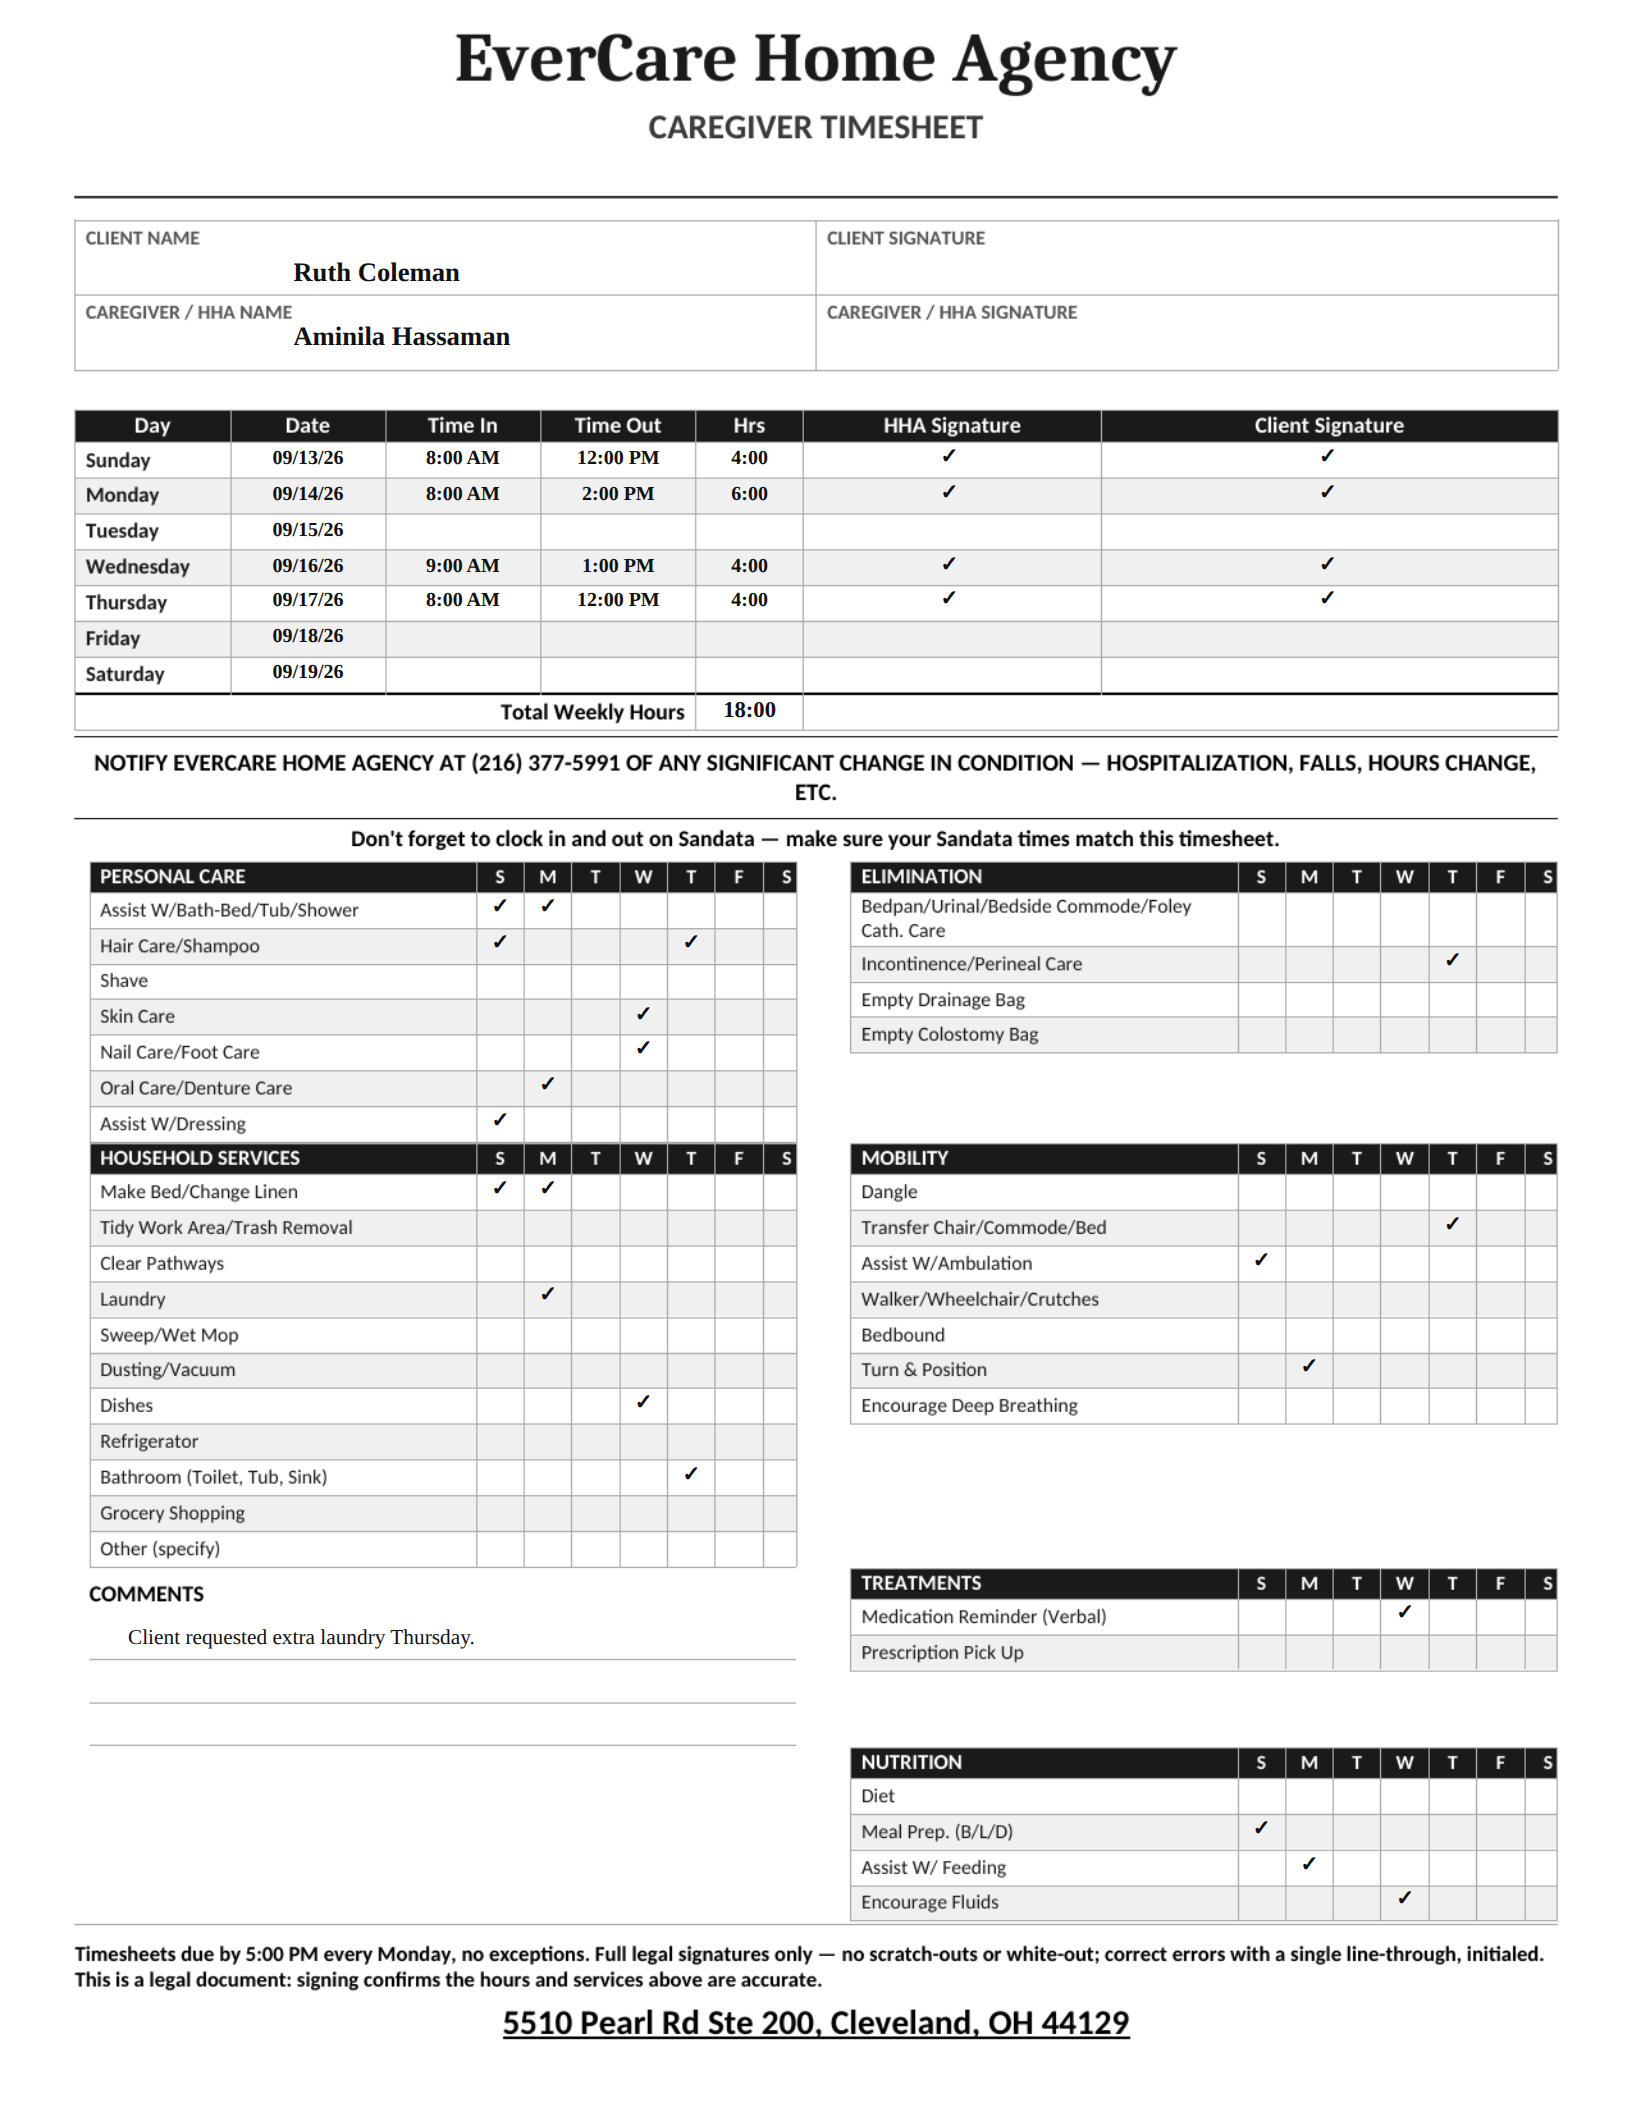
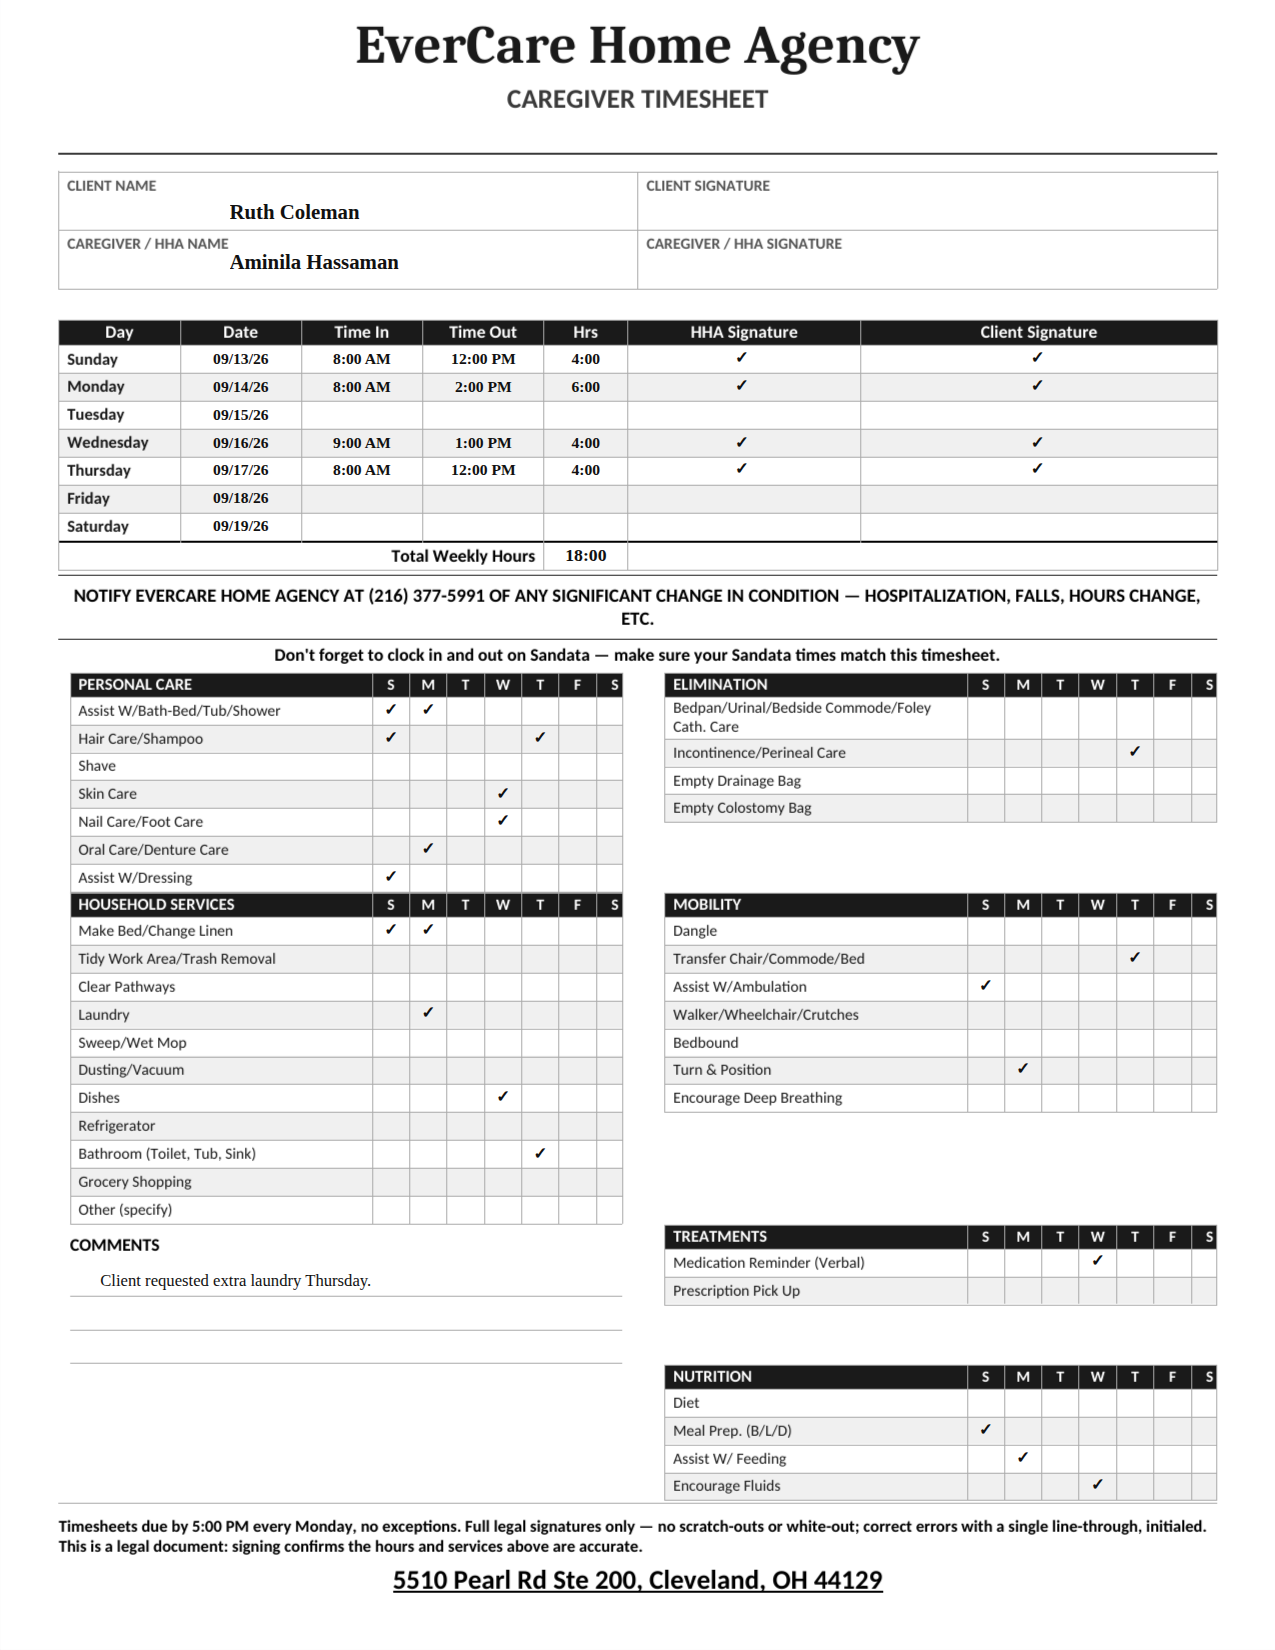
Harden PrintTS paper overlay so Probe sees blank letter
Serve the blank via both a cache-busted ts-blank img and CSS
background-image on #tsPrintSheet, mark data-print-mode=paper-overlay,
await blank decode before print, and drop leftover HTML table builders.
Force a Pages index.html refresh and refresh print-sample-OVERLAY.png.

diff --git a/index.html b/index.html
@@ -7,6 +7,7 @@
 <meta charset="UTF-8">
 <meta name="viewport" content="width=device-width, initial-scale=1, maximum-scale=1, viewport-fit=cover">
 <title>EverCare — Admin Portal</title>
+<!-- paper-overlay hotfix 2026-09-21 v=a713ovl force Pages index.html refresh -->
 <link href="https://fonts.googleapis.com/css2?family=Playfair+Display:wght@600;700&family=DM+Sans:wght@300;400;500;600&display=swap" rel="stylesheet">
 <style>
 :root{--teal:#2a7f7f;--teal-dark:#1e6060;--teal-light:#e8f4f4;--navy:#1a2744;--off:#f5f8fc;--border:#dce4ef;--text:#1e2a3a;--muted:#6b7a90;--danger:#c0392b;--success:#27ae60;--warn:#e67e22;}
@@ -280,7 +281,18 @@ textarea{resize:vertical;min-height:80px;}
 body.ts-print-open{overflow:hidden;}
 .ts-print-wrap{flex:1;padding:8px 6px 20px;display:flex;justify-content:center;align-items:flex-start;}
 /* US Letter lock — 612×792pt / 8.5×11in. Blank paper + FORM-map fills only. */
-.ts-print-sheet{position:relative;background:#fff;width:8.5in;height:11in;max-width:100%;padding:0;box-shadow:0 8px 28px rgba(0,0,0,0.18);color:#111;font-family:'Times New Roman',Times,serif;box-sizing:border-box;overflow:hidden;aspect-ratio:8.5/11;container-type:inline-size;container-name:ts;flex:none;align-self:flex-start;}
+:root{--ts-blank-url:url('assets/blank-letter.png?v=a713ovl');}
+#tsPrintSheet,.ts-print-sheet{
+  position:relative;
+  background-color:#fff;
+  background-image:var(--ts-blank-url);
+  background-size:100% 100%;
+  background-repeat:no-repeat;
+  background-position:center;
+  -webkit-print-color-adjust:exact;
+  print-color-adjust:exact;
+  width:8.5in;height:11in;max-width:100%;padding:0;box-shadow:0 8px 28px rgba(0,0,0,0.18);color:#111;font-family:'Times New Roman',Times,serif;box-sizing:border-box;overflow:hidden;aspect-ratio:8.5/11;container-type:inline-size;container-name:ts;flex:none;align-self:flex-start;
+}
 .ts-blank{display:block;width:100%;height:100%;object-fit:fill;object-position:center;border:0;-webkit-print-color-adjust:exact;print-color-adjust:exact;position:absolute;inset:0;z-index:0;}
 .ts-fill{position:absolute;z-index:1;color:#111;font-family:'Times New Roman',Times,serif;font-weight:700;line-height:1;white-space:nowrap;pointer-events:none;transform:translate(0,-50%);}
 .ts-fill-c{transform:translate(-50%,-50%);text-align:center;}
@@ -380,7 +392,13 @@ body.ts-print-open{overflow:hidden;}
     margin:0 !important;
     position:relative !important;
     overflow:hidden !important;
-    background:#fff !important;
+    background-color:#fff !important;
+    background-image:url('assets/blank-letter.png?v=a713ovl') !important;
+    background-size:100% 100% !important;
+    background-repeat:no-repeat !important;
+    background-position:center !important;
+    -webkit-print-color-adjust:exact !important;
+    print-color-adjust:exact !important;
     color:#111 !important;
   }
   @page{size:letter;margin:0;}
@@ -1573,7 +1591,7 @@ Call (216) 377-5991 with any questions.</textarea>
     </div>
   </div>
   <div class="ts-print-wrap">
-    <div id="tsPrintSheet" class="ts-print-sheet"></div>
+    <div id="tsPrintSheet" class="ts-print-sheet" data-print-mode="paper-overlay"></div>
   </div>
 </div>
 
@@ -1595,30 +1613,19 @@ const SHEETS_URL='https://script.google.com/macros/s/AKfycbwSZbOtThwwwiu5pojn7re
 const MGR_PASSWORD='evercare2024';
 const DAYS=['Sunday','Monday','Tuesday','Wednesday','Thursday','Friday','Saturday'];
 const PRINT_DAYS=[0,1,2,3,4,5,6]; // Sun–Sat Caregiver Timesheet paper
-const PAPER_DAY_LETTERS=['S','M','T','W','T','F','S'];
 const AGENCY={
   name:'EverCare Home Agency',
   address:'5510 Pearl Rd Ste 200',
   cityLine:'Cleveland, OH 44129',
   phone:'(216) 377-5991'
 };
-/* Exact Ace / TimesheetArchive.gs PAPER_SERVICES SVC_* labels. */
+/* Exact Ace / TimesheetArchive.gs SVC_* labels. */
 const SVC_PERSONAL_CARE=['Assist W/Bath-Bed/Tub/Shower','Hair Care/Shampoo','Shave','Skin Care','Nail Care/Foot Care','Oral Care/Denture Care','Assist W/Dressing'];
 const SVC_ELIMINATION=['Bedpan/Urinal/Bedside Commode/Foley','Cath. Care','Incontinence/Perineal Care','Empty Drainage Bag','Empty Colostomy Bag'];
 const SVC_HOUSEHOLD=['Make Bed/Change Linen','Tidy Work Area/Trash Removal','Clear Pathways','Laundry','Sweep/Wet Mop','Dusting/Vacuum','Dishes','Refrigerator','Bathroom (Toilet, Tub, Sink)','Grocery Shopping','Other (specify)'];
 const SVC_MOBILITY=['Dangle','Transfer Chair/Commode/Bed','Assist W/Ambulation','Walker/Wheelchair/Crutches','Bedbound','Turn & Position','Encourage Deep Breathing'];
 const SVC_TREATMENTS=['Medication Reminder (Verbal)','Prescription Pick Up'];
 const SVC_NUTRITION=['Diet','Meal Prep. (B/L/D)','Assist W/ Feeding','Encourage Fluids'];
-const PAPER_SERVICES=[
-  {n:'PERSONAL CARE',items:SVC_PERSONAL_CARE},
-  {n:'HOUSEHOLD SERVICES',items:SVC_HOUSEHOLD},
-  {n:'ELIMINATION',items:SVC_ELIMINATION},
-  {n:'MOBILITY',items:SVC_MOBILITY},
-  {n:'TREATMENTS',items:SVC_TREATMENTS},
-  {n:'NUTRITION',items:SVC_NUTRITION}
-];
-const PAPER_SVC_LEFT=['PERSONAL CARE','HOUSEHOLD SERVICES'];
-const PAPER_SVC_RIGHT=['ELIMINATION','MOBILITY','TREATMENTS','NUTRITION'];
 /* Ace TimesheetArchive FORM map — PDF pts, letter 612×792, yTop from top. */
 const TS_FORM_PT={
   sheetW:612,sheetH:792,
@@ -1638,7 +1645,8 @@ const TS_FORM_PT={
   yTreat:[606.18,619.59],
   yNutrition:[673.38,686.79,700.18,713.59]
 };
-const TS_BLANK_SRC='assets/blank-letter.png';
+const TS_BLANK_VER='a713ovl';
+const TS_BLANK_SRC='assets/blank-letter.png?v='+TS_BLANK_VER;
 const TS_SVC_OVERLAY=[
   {items:SVC_PERSONAL_CARE,ys:'yPersonal',xs:'dayXL'},
   {items:SVC_ELIMINATION,ys:'yElim',xs:'dayXR'},
@@ -2693,17 +2701,40 @@ function daySigMark(r,i,role){
   const d=dayEntry((r&&r.days)||{},i);
   return hasSigInk(role==='aide'?(d.aideSig||''):(d.clientSig||''));
 }
+function applyPrintSheetPaper(sheet){
+  if(!sheet)return;
+  sheet.setAttribute('data-print-mode','paper-overlay');
+  sheet.style.backgroundColor='#fff';
+  sheet.style.backgroundImage="url('"+TS_BLANK_SRC+"')";
+  sheet.style.backgroundSize='100% 100%';
+  sheet.style.backgroundRepeat='no-repeat';
+  sheet.style.backgroundPosition='center';
+  sheet.style.webkitPrintColorAdjust='exact';
+  sheet.style.printColorAdjust='exact';
+}
 function waitForSheetImages(root){
   const imgs=root?root.querySelectorAll('img'):[];
   if(!imgs.length)return Promise.resolve();
   return Promise.all(Array.prototype.map.call(imgs,img=>{
-    if(img.complete&&img.naturalWidth)return Promise.resolve();
+    if(img.complete&&img.naturalWidth>0)return Promise.resolve();
     return new Promise(res=>{
       const done=()=>res();
       img.addEventListener('load',done,{once:true});
       img.addEventListener('error',done,{once:true});
     });
   }));
+}
+async function waitForBlankPaper(root){
+  const img=root&&root.querySelector('img.ts-blank');
+  if(!img)return;
+  const deadline=Date.now()+8000;
+  while(Date.now()<deadline){
+    try{
+      if(typeof img.decode==='function')await img.decode();
+    }catch(e){}
+    if(img.naturalWidth>0)return;
+    await new Promise(r=>setTimeout(r,40));
+  }
 }
 
 function buildPrintHtml(r){
@@ -2752,7 +2783,9 @@ function buildPrintHtml(r){
   if(otherSpecify)fills.push(tsFill(otherSpecify,F.otherSpecifyX,F.otherSpecifyY,'ts-fill-other'));
   const notes=String((r&&(r.notes||r.comments))||'').trim();
   if(notes)fills.push(tsFill(notes,F.commentsX,F.commentsY,'ts-fill-notes'));
-  return `<img class="ts-blank" src="${TS_BLANK_SRC}" alt="" width="1275" height="1650" decoding="sync" loading="eager">${fills.join('')}`;
+  const html=`<img class="ts-blank" src="${TS_BLANK_SRC}" alt="" width="1275" height="1650" decoding="sync" loading="eager">${fills.join('')}`;
+  if(/<table\b/i.test(html))return html.replace(/<table\b[\s\S]*?<\/table>/gi,'');
+  return html;
 }
 
 function closeTimesheetPrint(){
@@ -2799,6 +2832,7 @@ function openTimesheetPrint(r){
   const overlay=document.getElementById('tsPrintOverlay');
   if(!sheet||!overlay)return;
   sheet.innerHTML=buildPrintHtml(r);
+  applyPrintSheetPaper(sheet);
   overlay.classList.add('show');
   overlay.removeAttribute('hidden');
   overlay.hidden=false;
@@ -2810,7 +2844,11 @@ async function printTimesheetSheet(){
   const overlay=document.getElementById('tsPrintOverlay');
   const sheet=document.getElementById('tsPrintSheet');
   if(!overlay||!overlay.classList.contains('show')||!sheet)return;
-  await waitForSheetImages(sheet);
+  applyPrintSheetPaper(sheet);
+  await waitForBlankPaper(sheet);
+  if(!(sheet.querySelector('img.ts-blank')&&sheet.querySelector('img.ts-blank').naturalWidth>0)){
+    await waitForSheetImages(sheet);
+  }
   unlockBodyForPrint();
   const parent=sheet.parentNode;
   const next=sheet.nextSibling;
@@ -2907,10 +2945,13 @@ async function downloadTSPDF(){
   showTempMsg('Generating PDF, please wait...','var(--teal)');
   const container=document.createElement('div');
   container.className='ts-print-sheet';
-  container.style.cssText='position:fixed;left:-9999px;top:0;width:8.5in;height:11in;padding:0;overflow:hidden;background:#fff;box-shadow:none;';
+  container.setAttribute('data-print-mode','paper-overlay');
+  container.style.cssText='position:fixed;left:-9999px;top:0;width:8.5in;height:11in;padding:0;overflow:hidden;background-color:#fff;box-shadow:none;';
   container.innerHTML=buildPrintHtml(r);
+  applyPrintSheetPaper(container);
   document.body.appendChild(container);
   try{
+    await waitForBlankPaper(container);
     await waitForSheetImages(container);
     const canvas=await html2canvas(container,{scale:2,useCORS:true,backgroundColor:'#ffffff'});
     const imgData=canvas.toDataURL('image/png');

diff --git a/printts-paper-overlay-test.js b/printts-paper-overlay-test.js
@@ -18,7 +18,19 @@ assert.ok(!html.includes('buildPaperSvcSection'), 'table service builder must be
 assert.ok(!html.includes('Travel Hours'), 'must not invent Travel Hours');
 assert.ok(html.includes('function buildPrintHtml('), 'buildPrintHtml required');
 assert.ok(html.includes('class="ts-blank"'), 'blank paper img required');
-assert.ok(html.includes("TS_BLANK_SRC='assets/blank-letter.png'"), 'Pages-served blank path');
+assert.ok(/TS_BLANK_SRC='assets\/blank-letter\.png\?v='/.test(html), 'Pages-served blank path with cache bust');
+assert.ok(html.includes("TS_BLANK_VER='a713ovl'"), 'blank asset version');
+assert.ok(/background-image:\s*(?:var\(--ts-blank-url\)|url\(['"]assets\/blank-letter\.png\?v=)/.test(html), 'sheet CSS background-image backup');
+assert.ok(html.includes("background-image:url('assets/blank-letter.png?v=a713ovl')"), 'print CSS keeps versioned blank');
+assert.ok(!/#tsPrintSheet,\.ts-print-sheet\{[^}]*background:#fff !important/.test(html.replace(/\n/g,'')), 'print sheet CSS must not wipe background-image');
+assert.ok(html.includes('data-print-mode="paper-overlay"'), 'sheet marks paper-overlay mode');
+assert.ok(html.includes('applyPrintSheetPaper'), 'open/print apply paper CSS + data attr');
+assert.ok(/async function printTimesheetSheet\(/.test(html), 'printTimesheetSheet stays async');
+assert.ok(/async function waitForBlankPaper\(/.test(html), 'decode wait helper');
+assert.ok(html.includes('img.decode') || html.includes('img.decode==='), 'await image decode');
+assert.ok(html.includes('naturalWidth>0'), 'blank must decode with naturalWidth>0');
+assert.ok(!html.includes('PAPER_SVC_LEFT'), 'legacy HTML left-column builder removed');
+assert.ok(!html.includes('PAPER_SERVICES'), 'legacy HTML service table map removed');
 assert.ok(html.includes('nameX:110'), 'Ace FORM nameX');
 assert.ok(html.includes('dayY0:172.5'), 'Ace FORM dayY0');
 assert.ok(html.includes('commentsY:610'), 'Ace FORM commentsY');
@@ -66,6 +78,7 @@ const consts = [
   extractConst(html, 'SVC_TREATMENTS'),
   extractConst(html, 'SVC_NUTRITION'),
   extractConst(html, 'TS_FORM_PT'),
+  extractConst(html, 'TS_BLANK_VER'),
   extractConst(html, 'TS_BLANK_SRC'),
   extractConst(html, 'TS_SVC_OVERLAY')
 ].join('\n');
@@ -122,8 +135,9 @@ const rec = {
 
 const out = buildPrintHtml(rec);
 assert.ok(out.startsWith('<img class="ts-blank"'), 'sheet starts with blank paper img');
-assert.ok(out.includes('src="assets/blank-letter.png"'), 'blank src is Pages asset');
+assert.ok(out.includes('src="assets/blank-letter.png?v=a713ovl"'), 'blank src is versioned Pages asset');
 assert.ok(!/<table/i.test(out), 'overlay must not rebuild tables');
+assert.ok(!out.includes('<table'), 'buildPrintHtml never emits table');
 assert.ok(out.includes('Ruth Coleman'), 'client name fill');
 assert.ok(out.includes('Aminila Hassaman'), 'caregiver name fill');
 assert.ok(out.includes('09/13/26'), 'day date fill');
